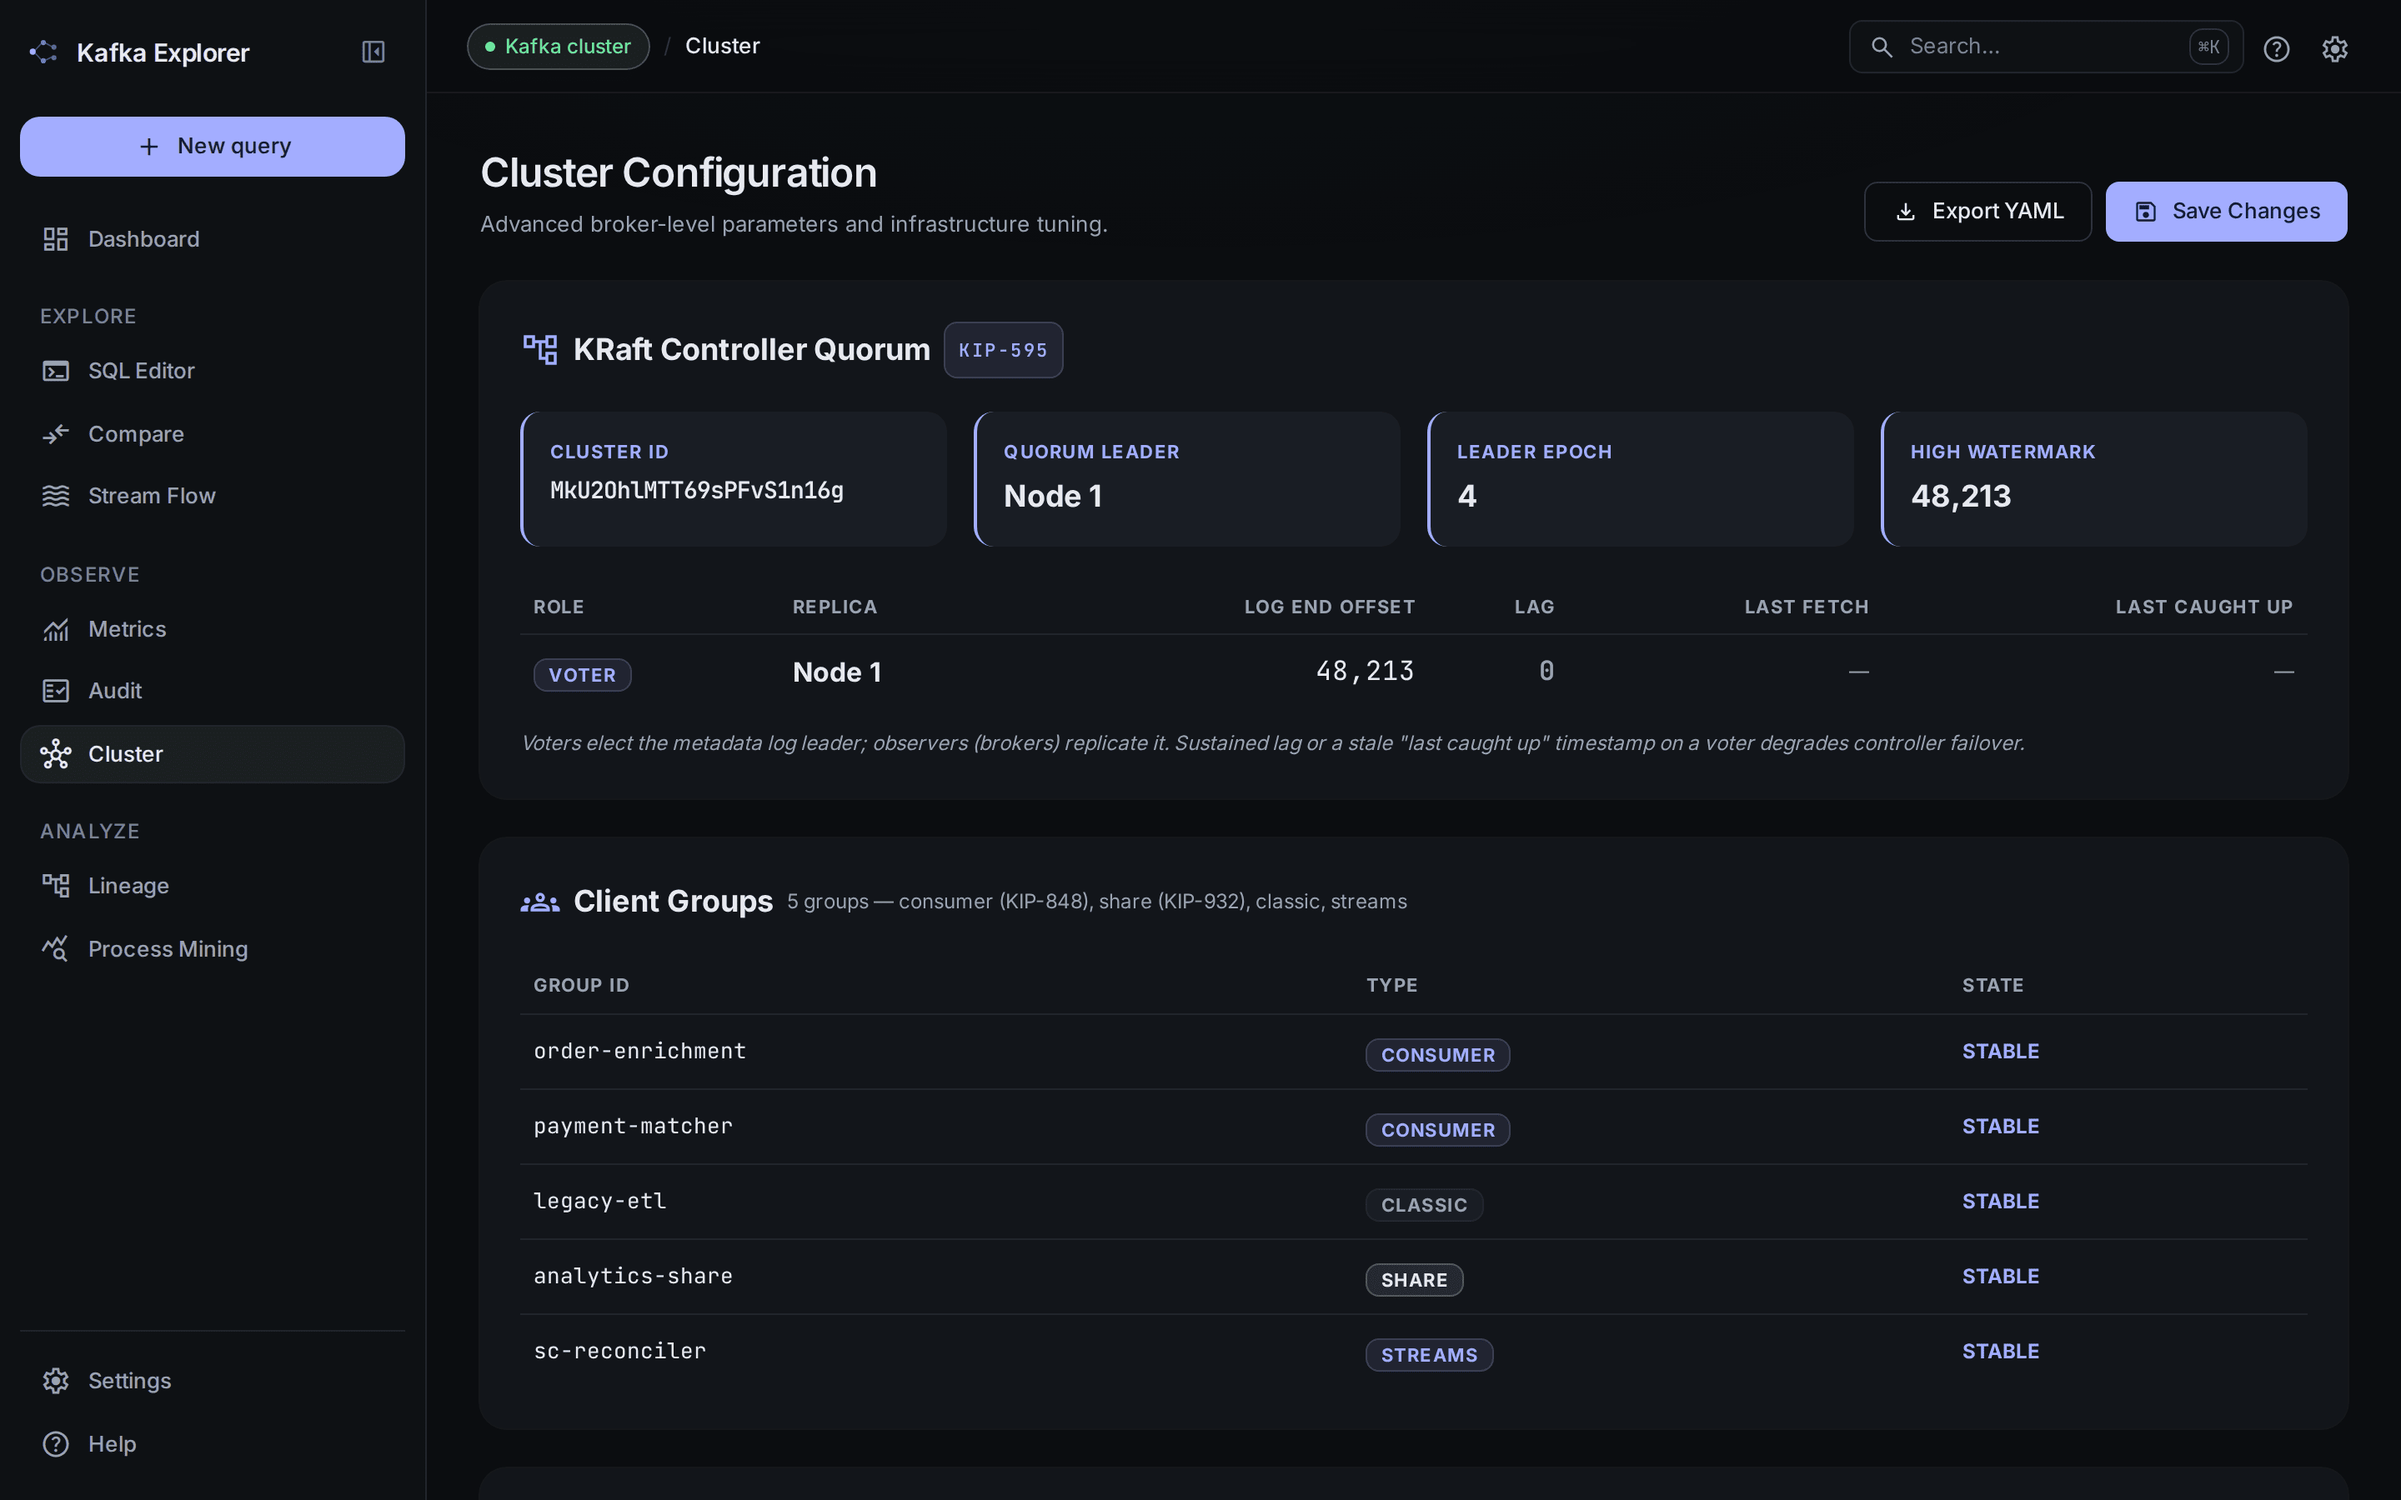
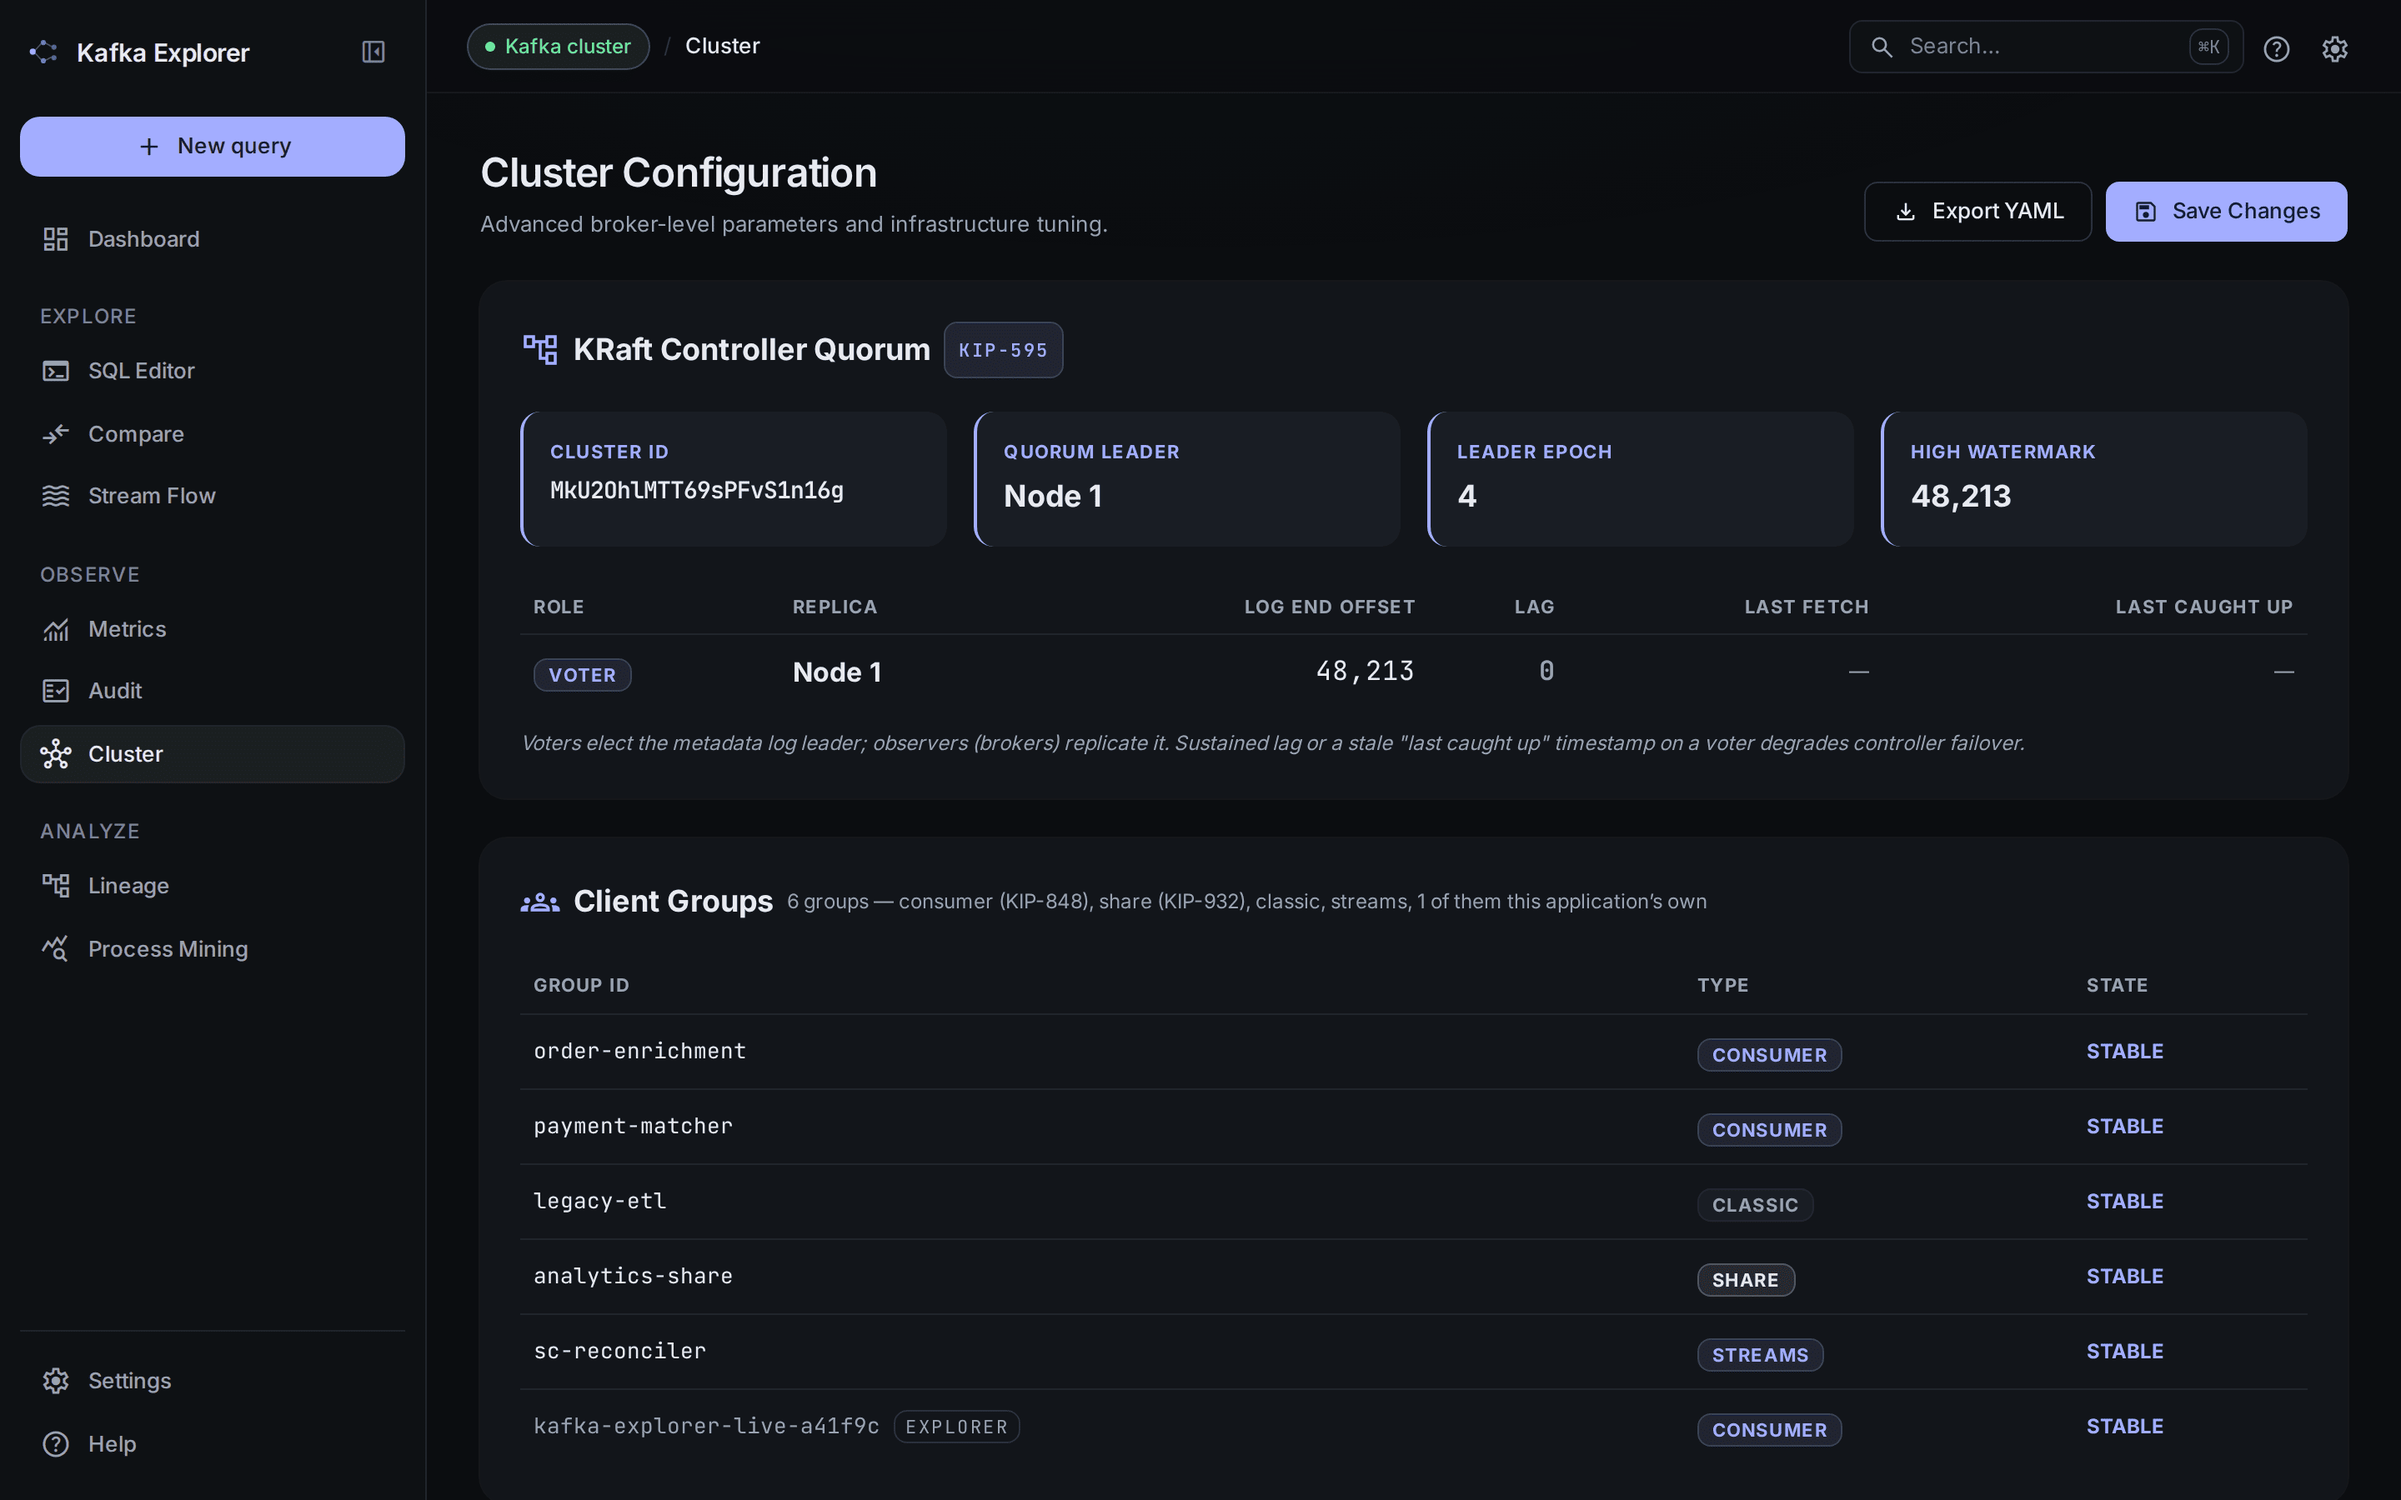
Mark the application's own groups on the Cluster page
The client-group table listed the explorer's readers indistinguishably from
real consumers, so an operator had to know the naming schemes to tell which
rows were their own pipelines. They are now flagged (`explorer: true`, from the
same `isExplorerGroup` the topic panel uses), rendered dimmed with a chip, and
counted in the section header.

Marked, not hidden: this page describes the cluster, and a group the explorer
left on it is part of what is there. Deliberately no lag column either — that
is a coordinator round trip per group, and the Topic Explorer's Consumers tab
answers that question where it is actually asked.

The empty state claimed the explorer's consumers "use manual partition
assignment and never register". That was false while they were committing
offsets under random group ids, and it is only half true now: the readers
assign and never commit, but a live Process Mining session does subscribe and
does show up for as long as it runs. It says that instead.

Two fixture bugs found by rendering the page: the cluster fixture had no
explorer group at all, and it carried Kafka's own field names for feature
versions (`minVersionLevel`) where the service puts `min` / `max` on the wire —
so every published screenshot of this page showed "vundefined". Fixed, and the
six images regenerated.

Claude-Session: https://claude.ai/code/session_01AQrGv6EaTCPgaNtgYrWwx8

diff --git a/src/main/webapp/src/pages/Cluster.tsx b/src/main/webapp/src/pages/Cluster.tsx
@@ -25,6 +25,8 @@ interface GroupInfo {
   groupId: string;
   type: string; // CLASSIC | CONSUMER (KIP-848) | SHARE (KIP-932) | STREAMS | UNKNOWN
   state: string;
+  /** Ce groupe appartient à l'explorer lui-même — marqué, pas masqué : la page décrit le cluster. */
+  explorer?: boolean;
 }
 
 interface VersionRange {
@@ -40,6 +42,11 @@ interface ClusterDetails {
   groups?: GroupInfo[];
   finalizedFeatures?: Record<string, VersionRange>;
   supportedFeatures?: Record<string, VersionRange>;
+}
+
+/** Combien de ces groupes sont les nôtres — l'en-tête le dit plutôt que de laisser compter. */
+function explorerGroupCount(groups: GroupInfo[]): number {
+  return groups.filter(g => g.explorer).length;
 }
 
 const GROUP_TYPE_STYLES: Record<string, string> = {
@@ -198,13 +205,17 @@ const Cluster: React.FC = () => {
               Client Groups
               <span className="text-[11px] font-normal text-on-surface-variant">
                 {details.groups.length} group{details.groups.length === 1 ? '' : 's'} — consumer (KIP-848), share (KIP-932), classic, streams
+                {explorerGroupCount(details.groups) > 0 && (
+                  <>, {explorerGroupCount(details.groups)} of them this application&rsquo;s own</>
+                )}
               </span>
             </h2>
             {details.groups.length === 0 ? (
               <p className="text-[12px] text-on-surface-variant italic">
-                No registered client groups. Groups appear once a consumer with group management
-                (subscribe) connects — the explorer's own sampling consumers use manual partition
-                assignment and never register.
+                No registered client groups. A group appears once a consumer joins with group
+                management, or commits an offset. This application&rsquo;s readers assign their
+                partitions and never commit, so they leave nothing behind here; a live Process
+                Mining session does subscribe, and shows up for as long as it runs.
               </p>
             ) : (
               <div className="overflow-x-auto">
@@ -219,7 +230,17 @@ const Cluster: React.FC = () => {
                   <tbody>
                     {details.groups.map(group => (
                       <tr key={group.groupId} className="border-b border-outline-variant/60 last:border-0 hover:bg-primary/5 transition-colors">
-                        <td className="py-2.5 px-2 font-mono text-[13px] text-on-surface">{group.groupId}</td>
+                        <td className="py-2.5 px-2 font-mono text-[13px] text-on-surface">
+                          <span className={group.explorer ? 'text-on-surface-variant' : undefined}>{group.groupId}</span>
+                          {group.explorer && (
+                            <span
+                              className="ml-2 text-[10px] px-1.5 py-0.5 rounded border border-outline-variant text-on-surface-variant uppercase tracking-widest align-middle"
+                              title="Created by this application — one of its own readers, not a consumer of your pipelines."
+                            >
+                              explorer
+                            </span>
+                          )}
+                        </td>
                         <td className="py-2.5 px-2">
                           <span className={`text-[10px] px-2 py-0.5 rounded border font-bold uppercase tracking-widest ${
                             GROUP_TYPE_STYLES[group.type] ?? GROUP_TYPE_STYLES.CLASSIC

diff --git a/src/main/java/com/yourcompany/kafkasqlexplorer/service/KafkaAdminService.java b/src/main/java/com/yourcompany/kafkasqlexplorer/service/KafkaAdminService.java
@@ -372,6 +372,10 @@ public class KafkaAdminService {
                     item.put("groupId", group.groupId());
                     item.put("type", group.type().map(Enum::name).orElse("UNKNOWN"));
                     item.put("state", group.groupState().map(Enum::name).orElse("UNKNOWN"));
+                    // Marked, not hidden: this page is about the cluster, and a group the
+                    // explorer left behind is part of what is on it. What an operator must not
+                    // have to do is guess which of these rows are their own consumers.
+                    item.put("explorer", ExplorerConsumerGroups.isExplorerGroup(group.groupId()));
                     groupList.add(item);
                 }
                 groupList.sort(Comparator.comparing(g -> (String) g.get("groupId")));

diff --git a/CLAUDE.md b/CLAUDE.md
@@ -331,7 +331,7 @@ The router is a **data router** (`createBrowserRouter` + `RouterProvider`, a `Sh
 - `Lineage` (`/lineage`) — interactive dependency graph (custom SVG; no external graph lib). Same interaction model as the Stream Flow graph, and for the same reasons: panning uses *pointer* events with `touch-action: none` (a tablet could not pan at all), the SVG is focusable with arrows to pan, `+`/`−` to zoom, `0` to reset and `Escape` to deselect, every node is a Tab-reachable `role="button"` that opens its details on Enter or Space (and shows its tooltip on focus, not only on hover), and clicking the background deselects. Statements the backend could not resolve are listed above the graph — see `LineageService`
 - `Metrics` (`/metrics`) + `MetricsHelp` (`/metrics/help`) — Prometheus metric config, live values and Recharts charts. A metric is SQL, so a rejected save is answered like a rejected query: `describeApiError` into an `ErrorPanel` **inside the modal**, where the SQL can be fixed, instead of a toast that faded behind the dialog carrying none of the server's reasoning. Failing to load the template list is surfaced too — `.catch(() => {})` left the picker empty with nothing to explain it
 - `Audit` (`/audit`) — cluster health dashboard. Restores the last run from `/api/audit/last` on mount (a refresh must not force a fresh full-cluster scan) and re-attaches to the poller if it is still `RUNNING`. Topics table has a text filter, a health filter and sortable numeric columns; compacted numbers (`1.2K`) always carry the exact value in `title`. A `FAILED` run renders an error banner, never the KPI grid — it used to show "0 topics / 100% health". A `CANCELLED` run renders its partial results behind a banner stating how many of the in-scope topics were actually covered. A collapsible "Past runs" card lists `/api/audit/history` with a health-score delta against the previous run; "Open" loads an archived report into the current view and "Diff" compares the run with the previous one.
-- `Cluster` (`/cluster`) — broker details and configuration (`/api/cluster`)
+- `Cluster` (`/cluster`) — broker details and configuration (`/api/cluster`). The client-group table **marks the application's own groups** rather than hiding them (`explorer: true` from `ExplorerConsumerGroups.isExplorerGroup`, rendered as a dimmed row with an `explorer` chip, counted in the section header): this page describes the cluster, so a group the explorer left on it belongs here — what an operator must not have to do is guess which rows are their own consumers. Deliberately no lag column: that costs a coordinator round trip per group, and the Topic Explorer's Consumers tab answers it where the question is actually asked. The empty state used to claim the explorer's consumers "never register", which was false while they were committing offsets under random group ids
 - `Config` (`/config`, nav "Settings") — Kafka connection and application settings UI. Leaving with unapplied changes asks first (`useUnsavedGuard`), and the form is kept as a draft — minus the passwords and API keys, which the dialog says will have to be typed again
 - `Help` (`/help`) — the SQL guide, written as a course rather than a reference card. It ran on five uncommented examples, three of which named tables that exist in no dataset here (`orders_raw`, `users`, `xml_topic`) — the most natural first gesture, copy one and press Run, answered "Object not found". It now goes: the mental model (topic → table, who creates the table, the two columns you never declared, which engine answers), a graded path of numbered steps that each add one idea and carry their own pitfall, then the references one re-reads — the engine capability matrix, the anatomy of a window call fragment by fragment, and the real error messages mapped to cause and fix. Every example runs against what `setup-demo.sh` actually seeds, and opens in the editor through the same `?sql=` link a colleague would paste. The content lives in `pages/help.ts`, where tests check the examples stay executable (statements the whitelist accepts, table names in their sanitized form, `INSERT INTO` marked as Job mode rather than offered a Run link) — a help page rots silently, and a wall of JSX literals cannot be checked
 - `ProcessMining` (`/process-mining`) — 4-step pipeline: topic selection → Claude profiling → schema validation → snapshot/live analysis with Mermaid flowchart + anomaly table. Sub-components in `components/processmining/`
